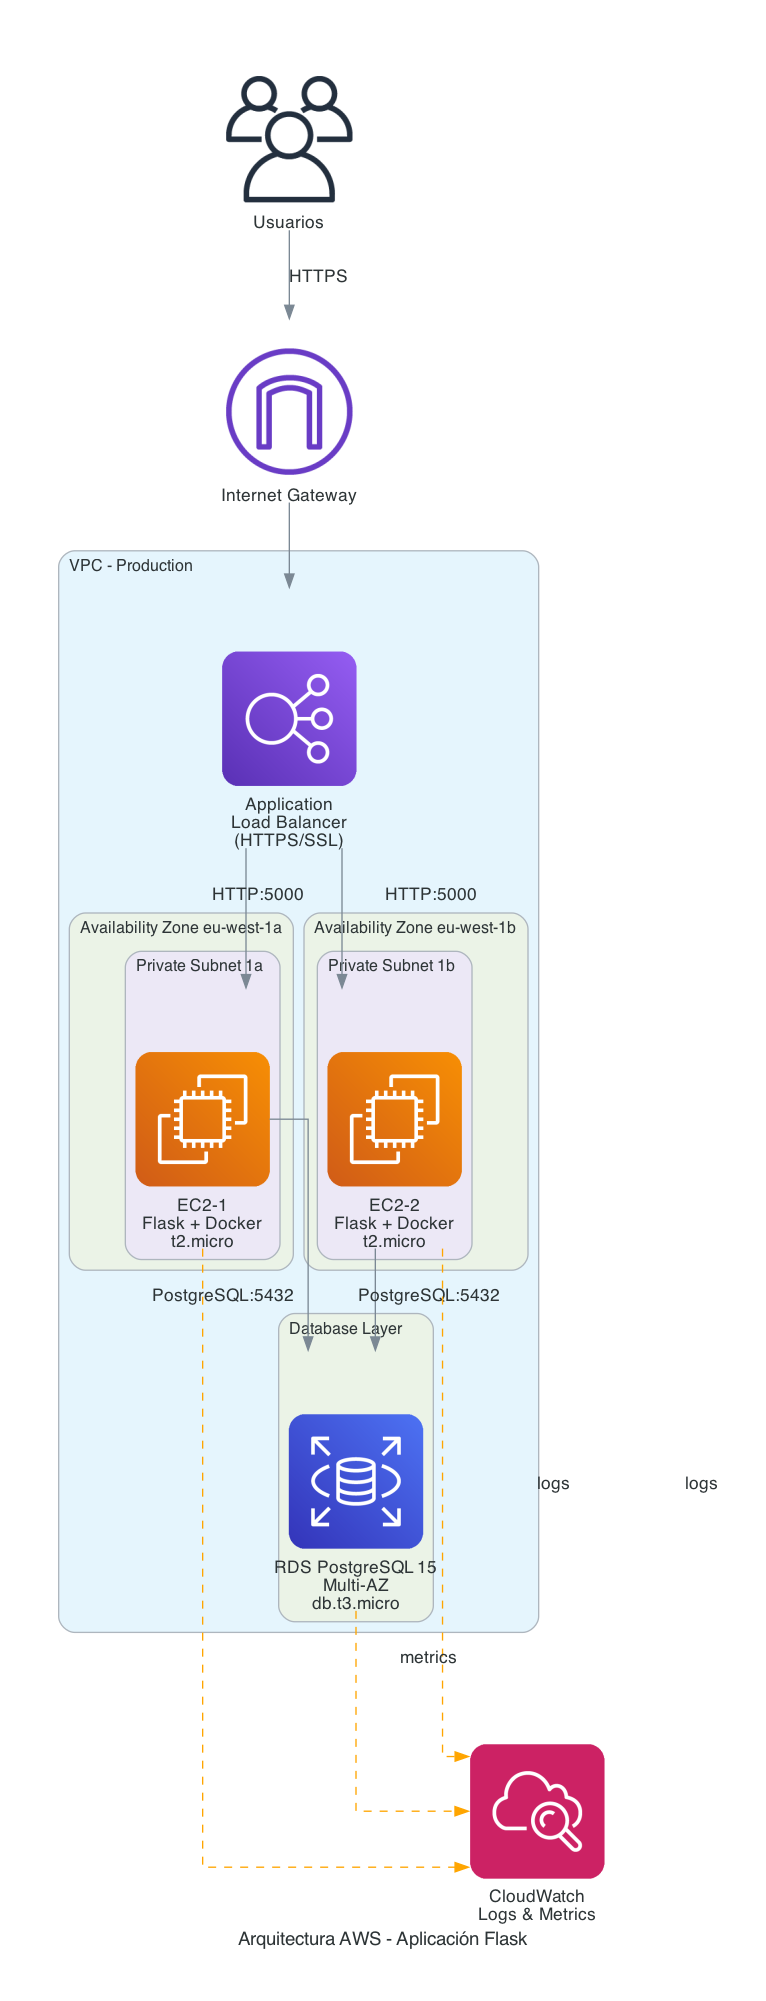
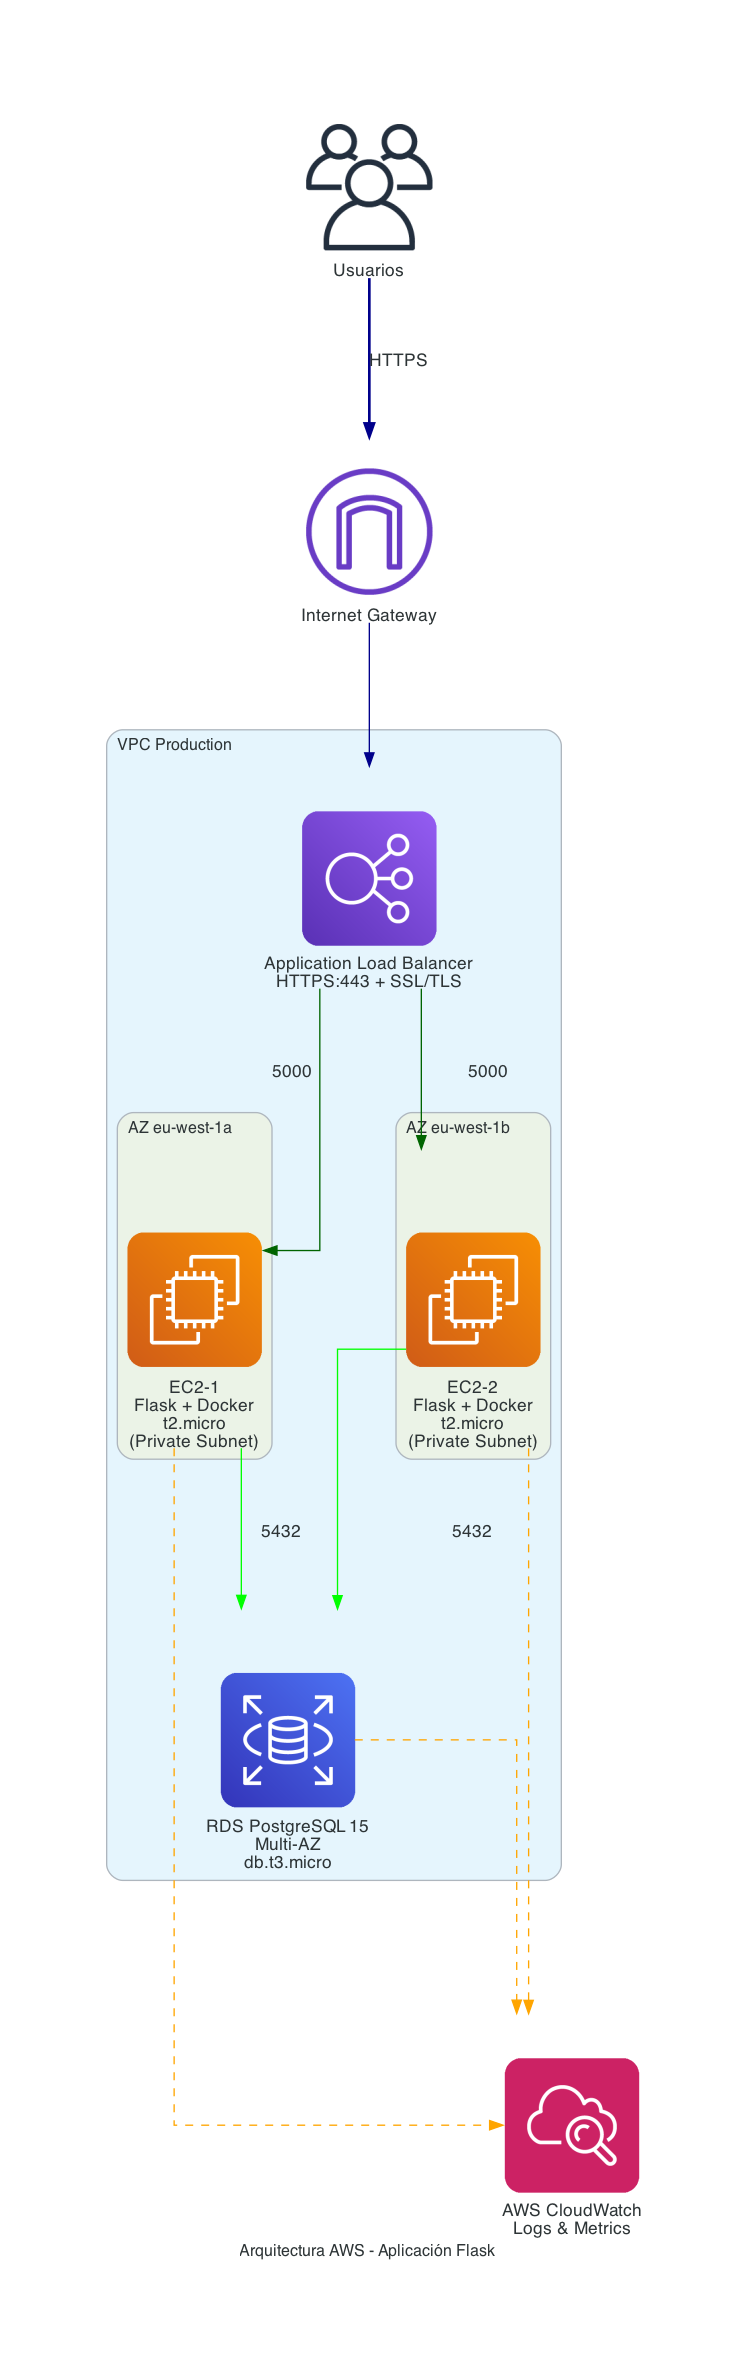
rest of files

Changed region(s): [[0.0599, 0.031, 0.868, 0.9915], [0.3293, 0.9295, 0.419, 0.9915], [0.449, 0.9295, 0.4789, 0.9915]]

diff --git a/crear_diagrama.py b/crear_diagrama.py
@@ -1,48 +1,58 @@
 from diagrams import Diagram, Cluster, Edge
-from diagrams.aws.network import VPC, InternetGateway, ELB, Route53
+from diagrams.aws.network import InternetGateway, ELB
 from diagrams.aws.compute import EC2
 from diagrams.aws.database import RDS
 from diagrams.aws.management import Cloudwatch
-from diagrams.aws.general import Users
+from diagrams.onprem.client import Users
 
-# Configuración del diagrama
 with Diagram("Arquitectura AWS - Aplicación Flask", 
              filename="docs/diagramas/arquitectura-aws",
              show=False,
              direction="TB",
              graph_attr={
-                 "fontsize": "14",
+                 "fontsize": "12",
                  "bgcolor": "white",
-                 "pad": "0.5"
+                 "pad": "1.0",
+                 "nodesep": "1.5",
+                 "ranksep": "1.5",
+                 "splines": "ortho",
+                 "concentrate": "false"
              }):
     
+    # Capa externa: Usuarios
     users = Users("Usuarios")
     igw = InternetGateway("Internet Gateway")
     
-    with Cluster("VPC - Production"):
-        alb = ELB("Application\nLoad Balancer\n(HTTPS/SSL)")
+    # VPC
+    with Cluster("VPC Production"):
         
-        with Cluster("Availability Zone eu-west-1a"):
-            with Cluster("Private Subnet 1a"):
-                ec2_1 = EC2("EC2-1\nFlask + Docker\nt2.micro")
+        # ALB (implícitamente en subnets públicas)
+        alb = ELB("Application Load Balancer\nHTTPS:443 + SSL/TLS")
         
-        with Cluster("Availability Zone eu-west-1b"):
-            with Cluster("Private Subnet 1b"):
-                ec2_2 = EC2("EC2-2\nFlask + Docker\nt2.micro")
+        # Availability Zones en paralelo
+        with Cluster("AZ eu-west-1a"):
+            ec2_1 = EC2("EC2-1\nFlask + Docker\nt2.micro\n(Private Subnet)")
         
-        with Cluster("Database Layer"):
-            db = RDS("RDS PostgreSQL 15\nMulti-AZ\ndb.t3.micro")
+        with Cluster("AZ eu-west-1b"):
+            ec2_2 = EC2("EC2-2\nFlask + Docker\nt2.micro\n(Private Subnet)")
+        
+        # Base de datos
+        db = RDS("RDS PostgreSQL 15\nMulti-AZ\ndb.t3.micro")
     
-    monitoring = Cloudwatch("CloudWatch\nLogs & Metrics")
+    # CloudWatch fuera
+    cw = Cloudwatch("AWS CloudWatch\nLogs & Metrics")
     
-    users >> Edge(label="HTTPS") >> igw >> alb
-    alb >> Edge(label="HTTP:5000") >> ec2_1
-    alb >> Edge(label="HTTP:5000") >> ec2_2
-    ec2_1 >> Edge(label="PostgreSQL:5432") >> db
-    ec2_2 >> Edge(label="PostgreSQL:5432") >> db
+    # Flujo principal (flechas sólidas azules/verdes)
+    users >> Edge(label="HTTPS", color="darkblue", style="bold") >> igw
+    igw >> Edge(color="darkblue") >> alb
+    alb >> Edge(label="5000", color="darkgreen") >> ec2_1
+    alb >> Edge(label="5000", color="darkgreen") >> ec2_2
+    ec2_1 >> Edge(label="5432", color="green") >> db
+    ec2_2 >> Edge(label="5432", color="green") >> db
     
-    ec2_1 >> Edge(label="logs", style="dashed", color="orange") >> monitoring
-    ec2_2 >> Edge(label="logs", style="dashed", color="orange") >> monitoring
-    db >> Edge(label="metrics", style="dashed", color="orange") >> monitoring
+    # Monitorización (flechas punteadas naranjas, DIRECTAS sin cruzar)
+    ec2_1 >> Edge(style="dashed", color="orange") >> cw
+    ec2_2 >> Edge(style="dashed", color="orange") >> cw
+    db >> Edge(style="dashed", color="orange") >> cw
 
-print("✅ Diagrama creado en: docs/diagramas/arquitectura-aws.png")
+print("✅ Diagrama limpio creado")
